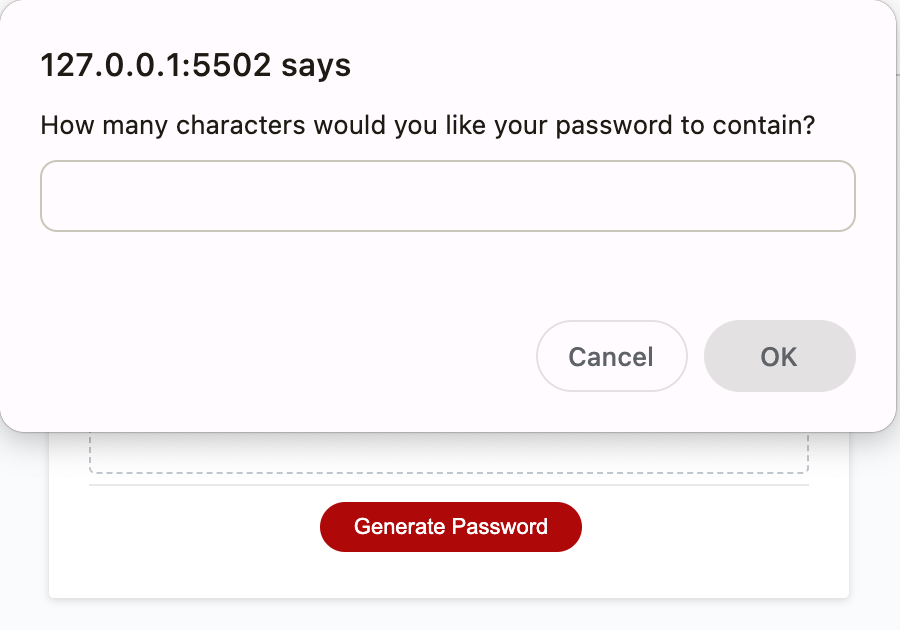
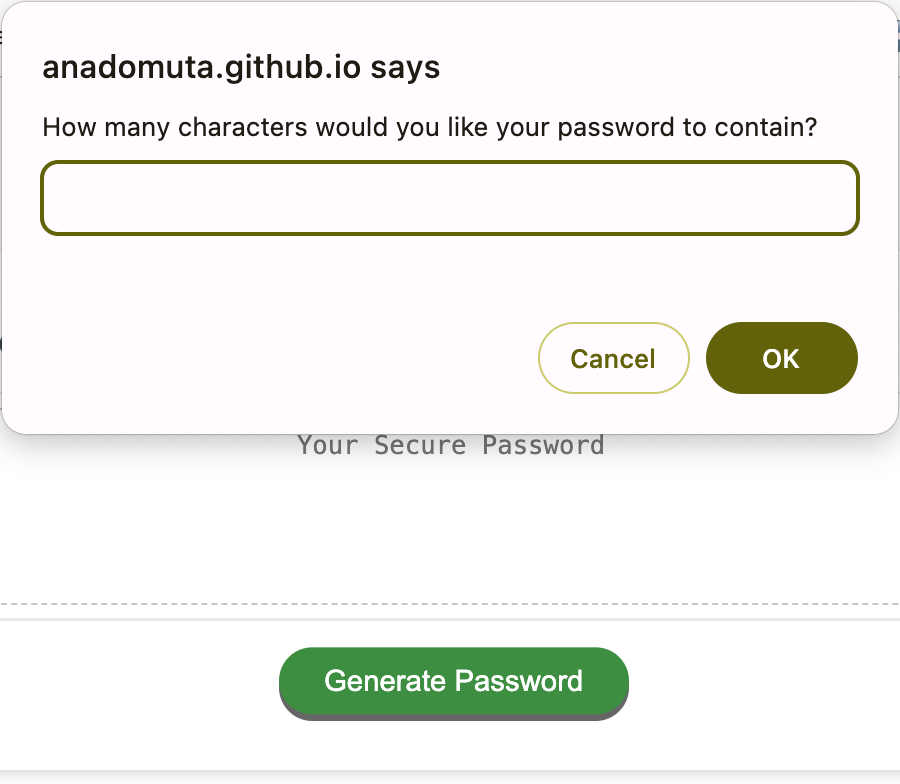
added link to deployed app and updated screenshots in README

diff --git a/README.md b/README.md
@@ -18,7 +18,7 @@ Once all prompts are answered, the password is generated and written to the page
 
 ## Usage
 
-The webpage can be accessed using this URL: link to follow
+The webpage can be accessed using this URL: https://anadomuta.github.io/challenge-password-generator/
 
 To generate the random password, the user can tap on the button "Generate password" and input the preferences for the length and type of characters that he prefers.
 
